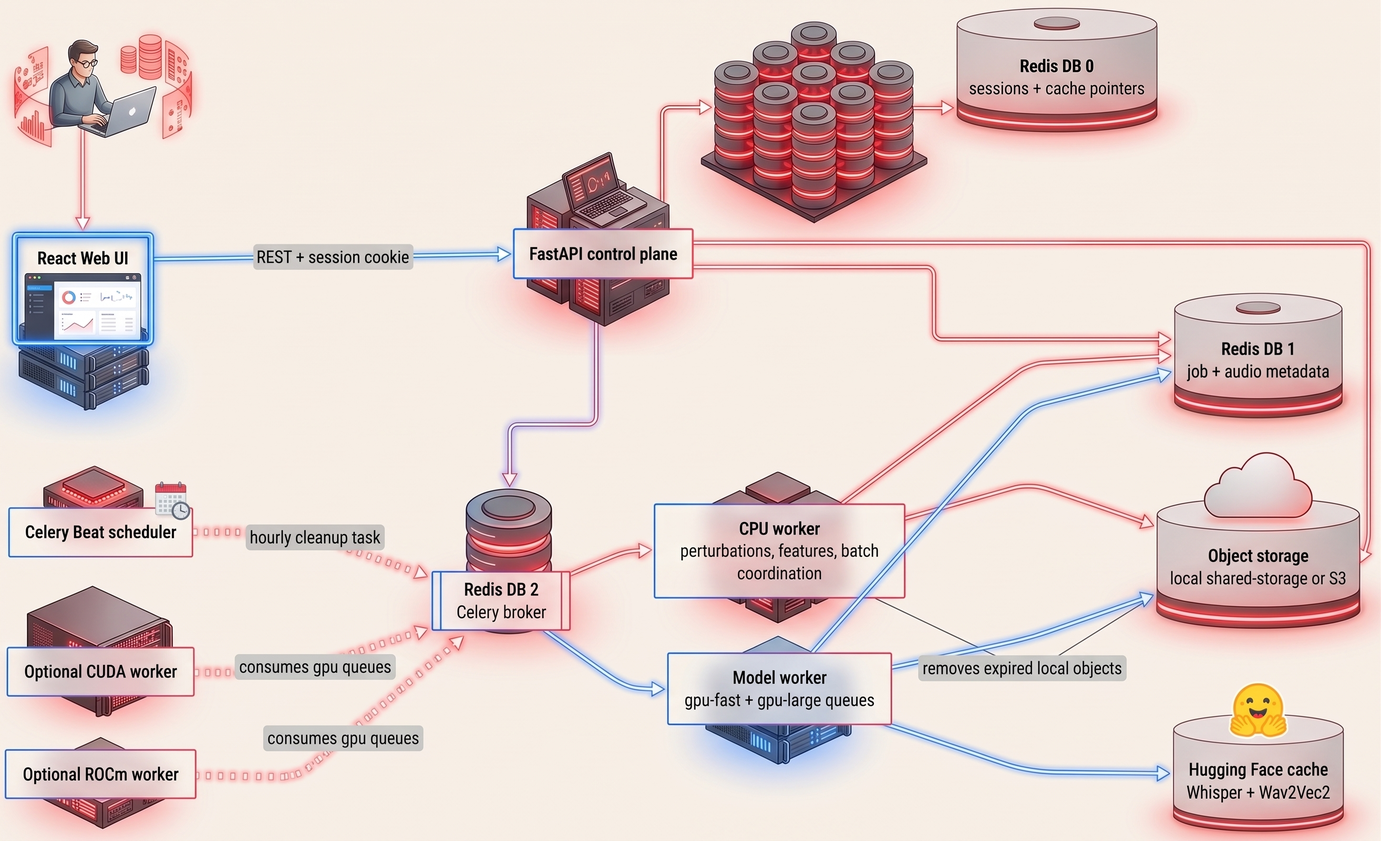
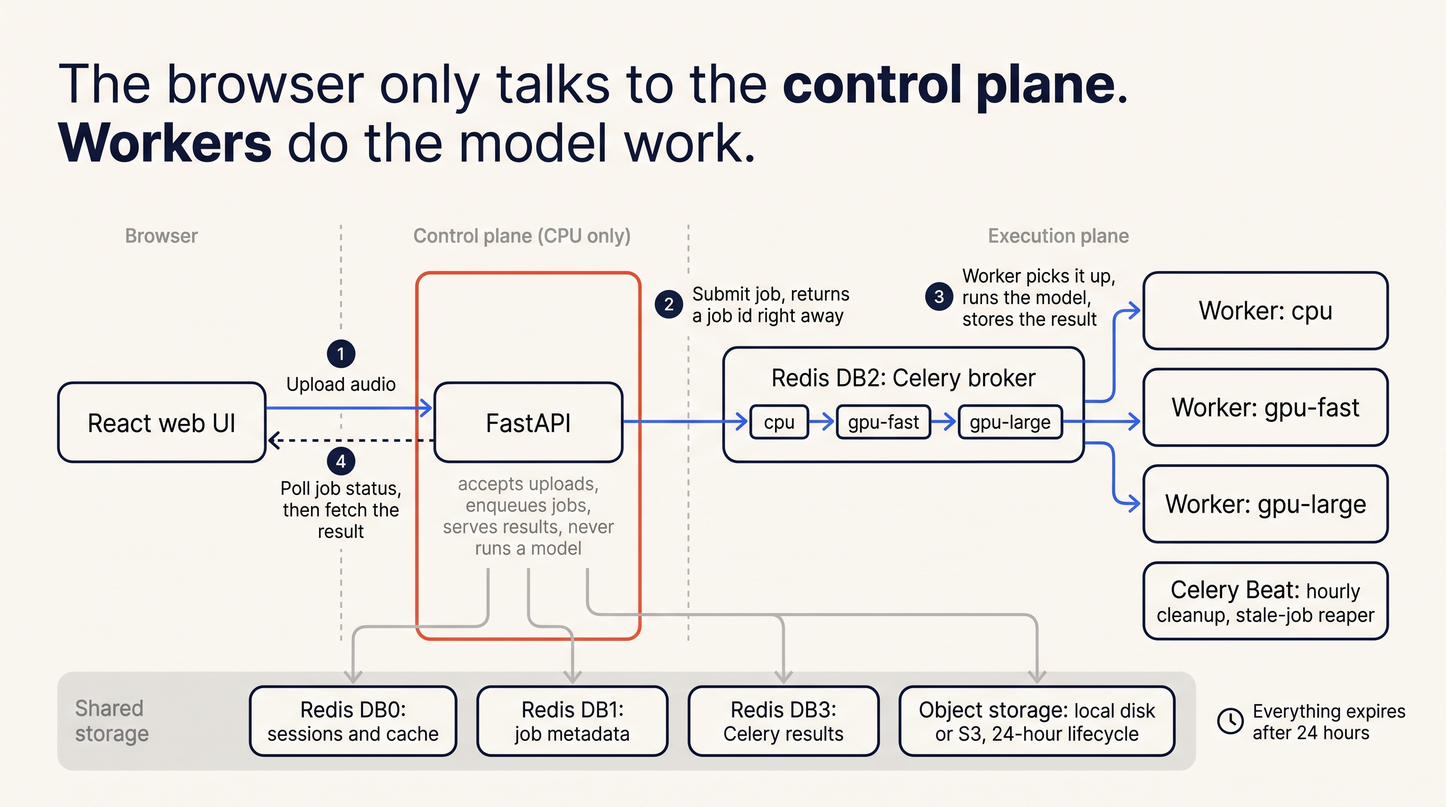
docs: add dataset loading diagram and refresh the architecture diagram
Show the dataset fetch flow and 24h upload expiry on the datasets page, replace the architecture image with the four-DB diagram, move it under the intro, and update the alt text.

diff --git a/app/docs/docs-index.generated.ts b/app/docs/docs-index.generated.ts
@@ -942,15 +942,7 @@ export const SECTION_RECORDS: Record<string, SearchRecord[]> = {
       "body": "Base images: python:3.11-slim (CPU/ROCm), nvidia/cuda:12.6.0-runtime-ubuntu22.04 (GPU). Frontend: node:20-alpine for development; the production target is nginx:alpine on port 80 with SPA fallback. Containers run as non-root user appuser (uid 1000)."
     },
     {
-      "key": "content:arch:compose-services:33",
-      "sectionId": "arch",
-      "headingId": "compose-services",
-      "kind": "content",
-      "title": "Compose services",
-      "body": "Image placeholder: architecture diagram Add /assets/docs/architecture-diagram.png — a diagram (not a screenshot) showing the frontend talking only to the FastAPI control plane, the control plane publishing job envelopes to the three queues, Celery workers consuming those queues, and the shared Redis/object-storage layer underneath. Replace this callout with ![Architecture diagram](/assets/docs/architecture-diagram.png) once the real image is uploaded."
-    },
-    {
-      "key": "heading:arch:related-pages:34",
+      "key": "heading:arch:related-pages:33",
       "sectionId": "arch",
       "headingId": "related-pages",
       "kind": "heading",
@@ -958,7 +950,7 @@ export const SECTION_RECORDS: Record<string, SearchRecord[]> = {
       "body": ""
     },
     {
-      "key": "content:arch:related-pages:35",
+      "key": "content:arch:related-pages:34",
       "sectionId": "arch",
       "headingId": "related-pages",
       "kind": "content",
